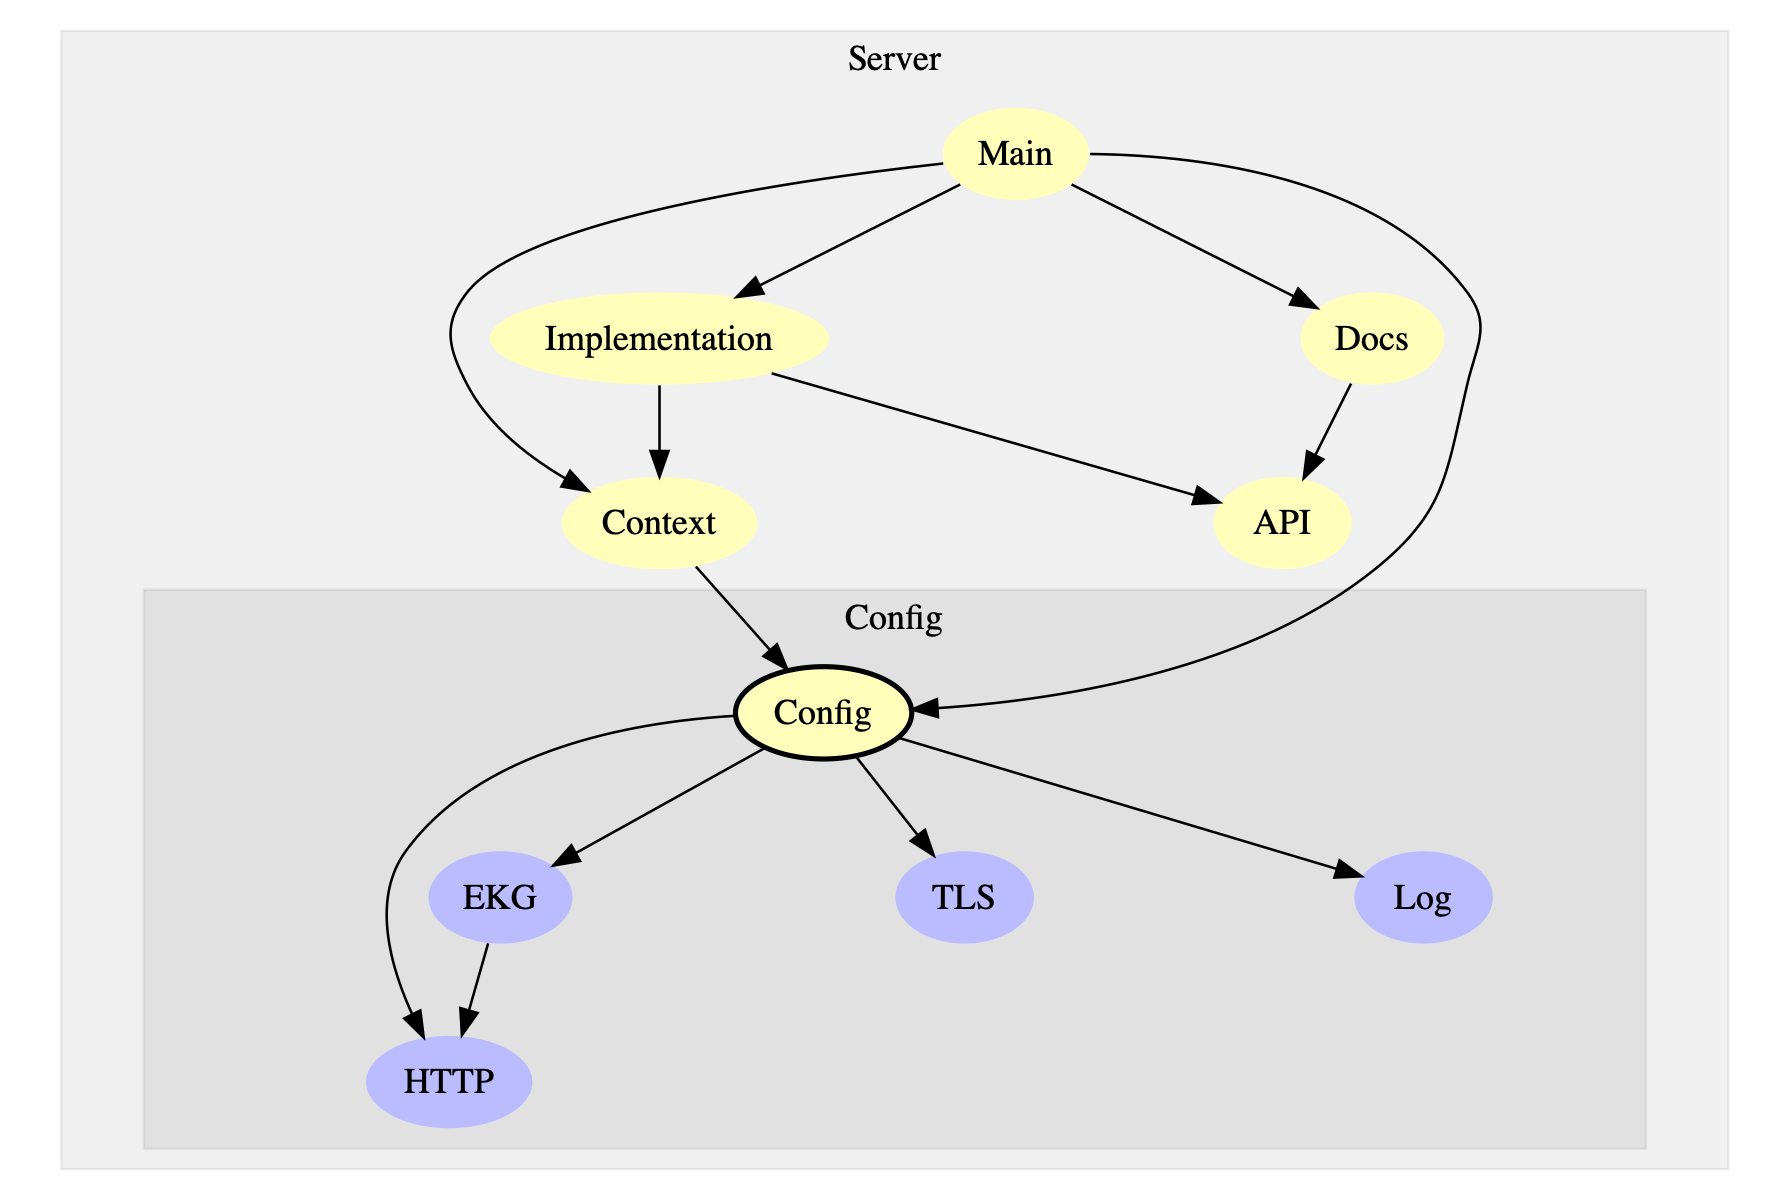
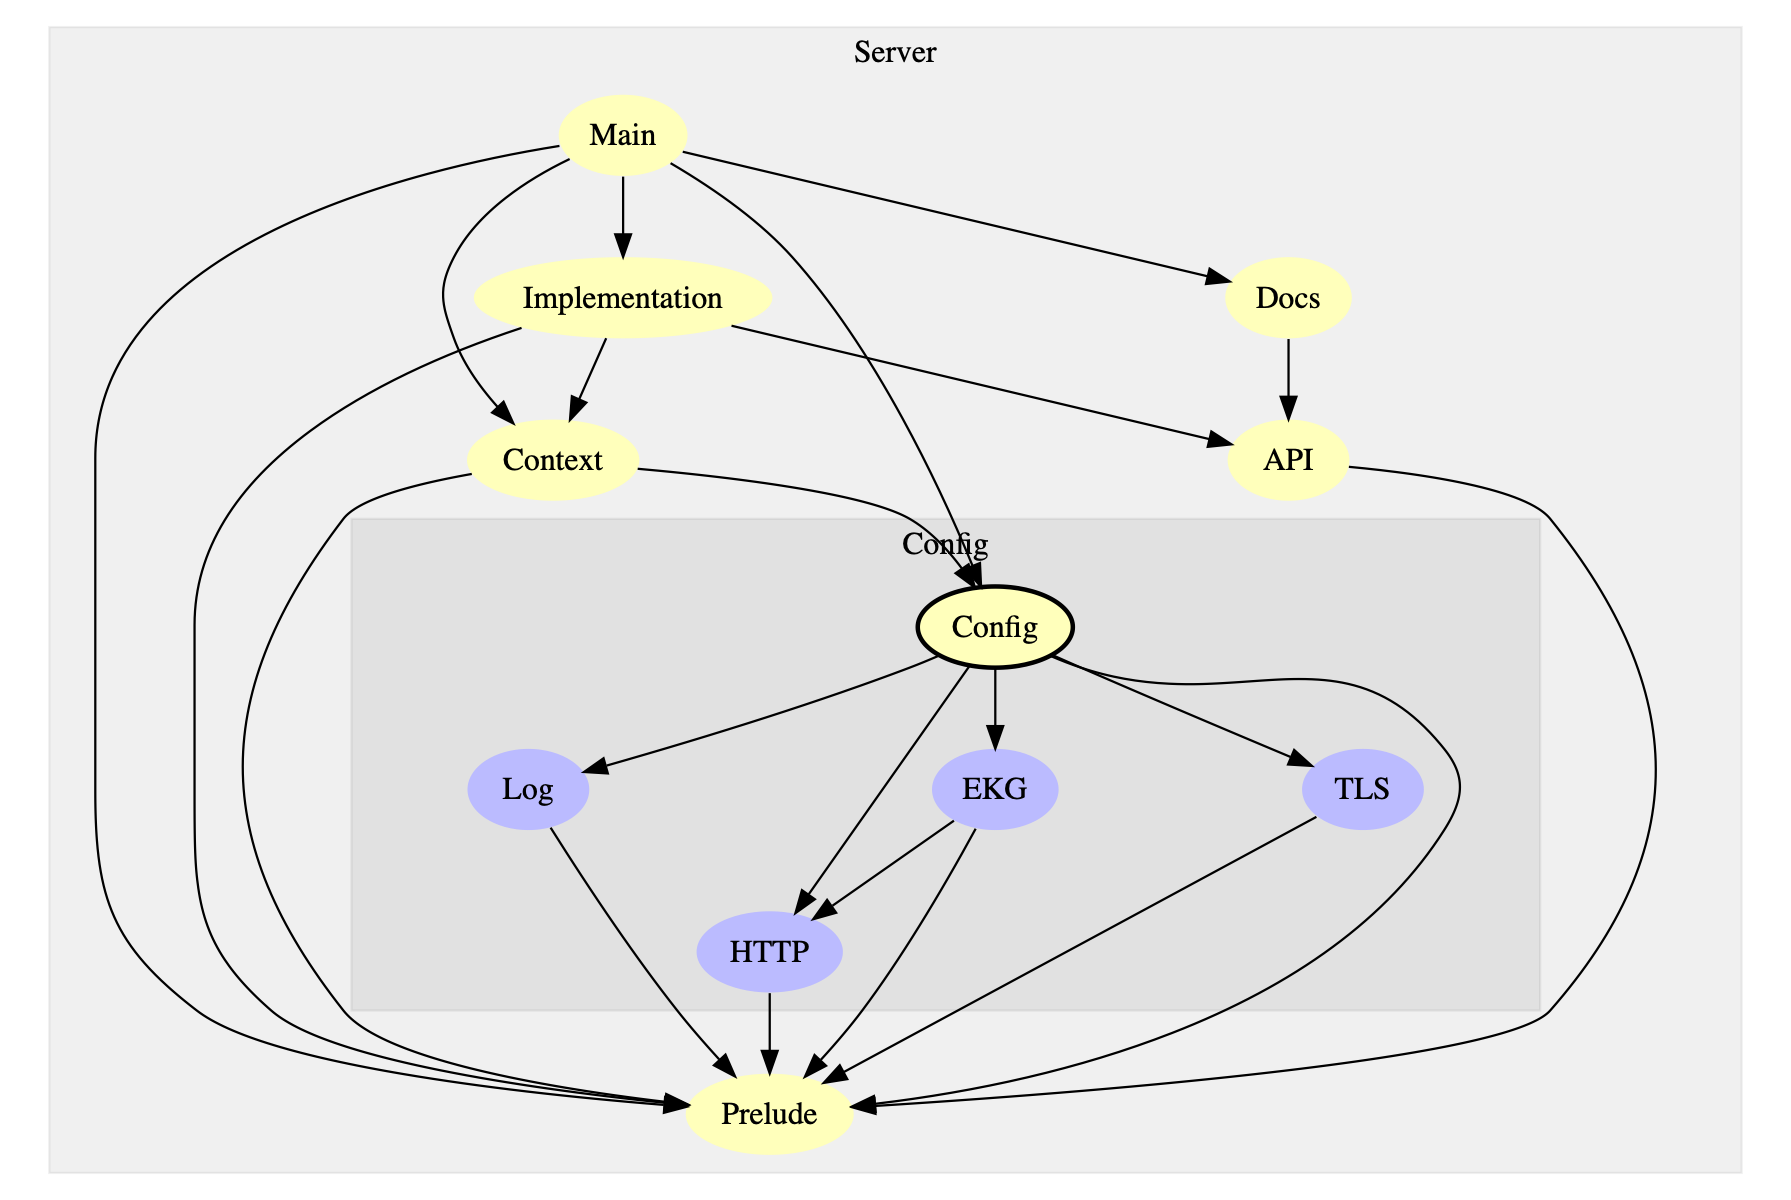
Made Prelude situation nicer

diff --git a/README.md b/README.md
@@ -15,38 +15,6 @@ use it in free software as well as proprietary.
 
 ![Module Structure](https://github.com/SamuelSchlesinger/haskell-server-template/blob/main/modules.png)
 
-The code is structured as a library, with the entrypoint in
-[Server.Main](https://github.com/SamuelSchlesinger/haskell-server-template/blob/main/src/Server/Main.hs)
-module and re-exported from the
-[Main](https://github.com/SamuelSchlesinger/haskell-server-template/blob/main/app/Application.hs)
-module as is required by Haskell applications. The server's logic is exported from
-[Server.Implementation](https://github.com/SamuelSchlesinger/haskell-server-template/blob/main/src/Server/Implementation.hs),
-and the tools we used to make that implementation are exported from
-[Server.Context](https://github.com/SamuelSchlesinger/haskell-server-template/blob/main/src/Server/Context.hs)
-and [Server.Config](https://github.com/SamuelSchlesinger/haskell-server-template/blob/main/src/Server/Config.hs).
-The `Config` type is defined in the `Server.Config.*` hierarchy, and we use that to construct a
-`Context`. Once we have a `Context`, we use that to run our `App` monad. Both of these types are defined
-in [Server.Context](https://github.com/SamuelSchlesinger/haskell-server-template/blob/main/src/Server/Context.hs).
-We can think of the `Config` as the information provided by the operator,
-such as which host and port to listen on, configuring our minimum printable log
-level, or containing filepaths to our TLS certificates. If we wanted to connect
-to a database, we would put the connection information in the `Config`.
-On the other hand, we can think of the `Context` as the dynamic structures the server
-maintains, such as the [ekg](https://hackage.haskell.org/package/ekg)
-[Server](https://hackage.haskell.org/package/ekg/docs/System-Remote-Monitoring.html#t:Server)
-and the [fast-logger](https://hackage.haskell.org/package/fast-logger) [LoggerSet](https://hackage.haskell.org/package/fast-logger/docs/System-Log-FastLogger-LoggerSet.html#t:LoggerSet).
-If we wanted to maintain a TCP connection to some other application, we would
-maintain that in the `Context`.
-
-To structure our server's API, we use the [servant](https://www.servant.dev/) library.
-First, we define the API in [Servant.API](https://github.com/SamuelSchlesinger/haskell-server-template/blob/main/src/Server/API.hs),
-then we implement that API in
-[Servant.Implementation](https://github.com/SamuelSchlesinger/haskell-server-template/blob/main/src/Server/Implementation.hs).
-Finally, we apply the HTTP and TLS config and actually run the implementation in
-[Server.Main](https://github.com/SamuelSchlesinger/haskell-server-template/blob/main/src/Server/Main.hs)
-using the [warp](https://hackage.haskell.org/package/warp) HTTP server, or
-[warp-tls](https://hackage.haskell.org/package/warp-tls) if there are TLS settings in the configuration file.
-
 # Operation
 
 To run this server with the default configuration, run it with `cabal run server -- run`.
